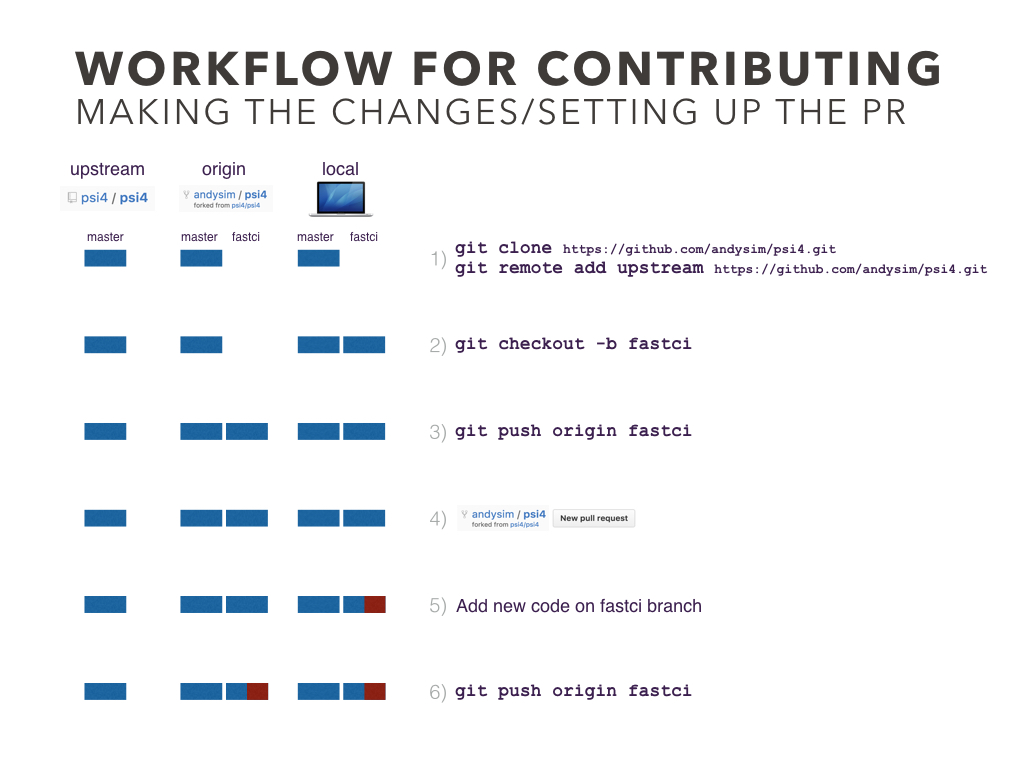
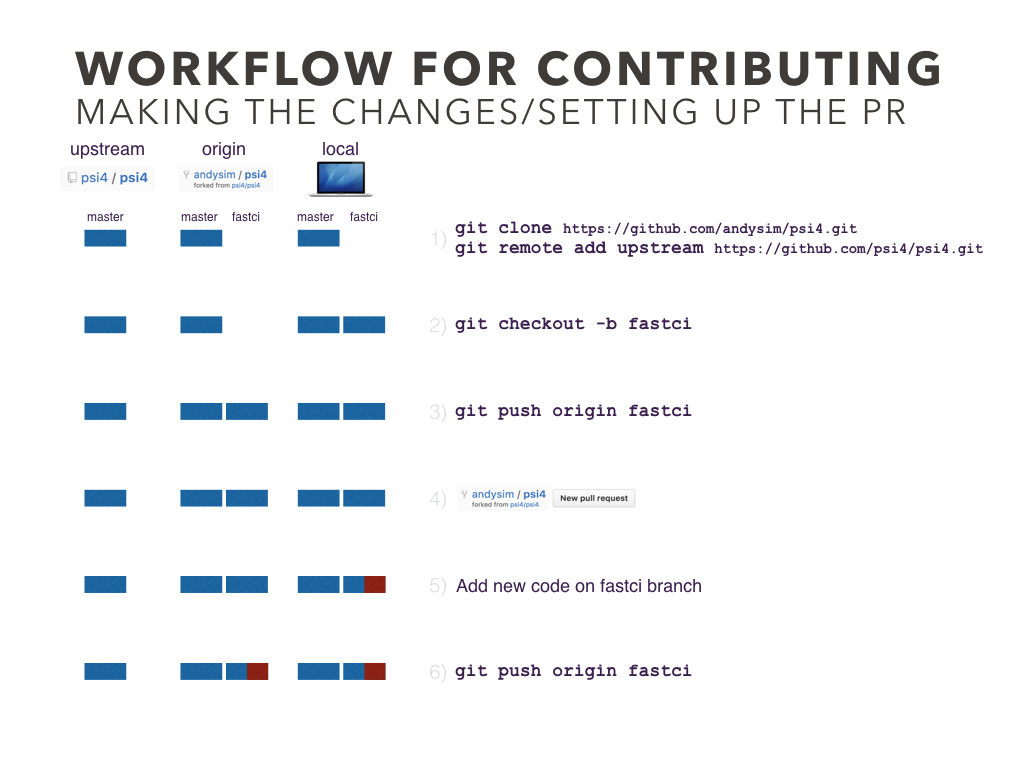
Fixes typo in GH remote add instructions that FAE noticed. Adds a git pull/push commands guide.

diff --git a/doc/sphinxman/source/build_obtaining.rst b/doc/sphinxman/source/build_obtaining.rst
@@ -277,3 +277,4 @@ What is the suggested GitHub workflow
 
 .. image:: /prflow.001.jpeg
 .. image:: /prflow.002.jpeg
+.. image:: /prflow.003.jpeg
